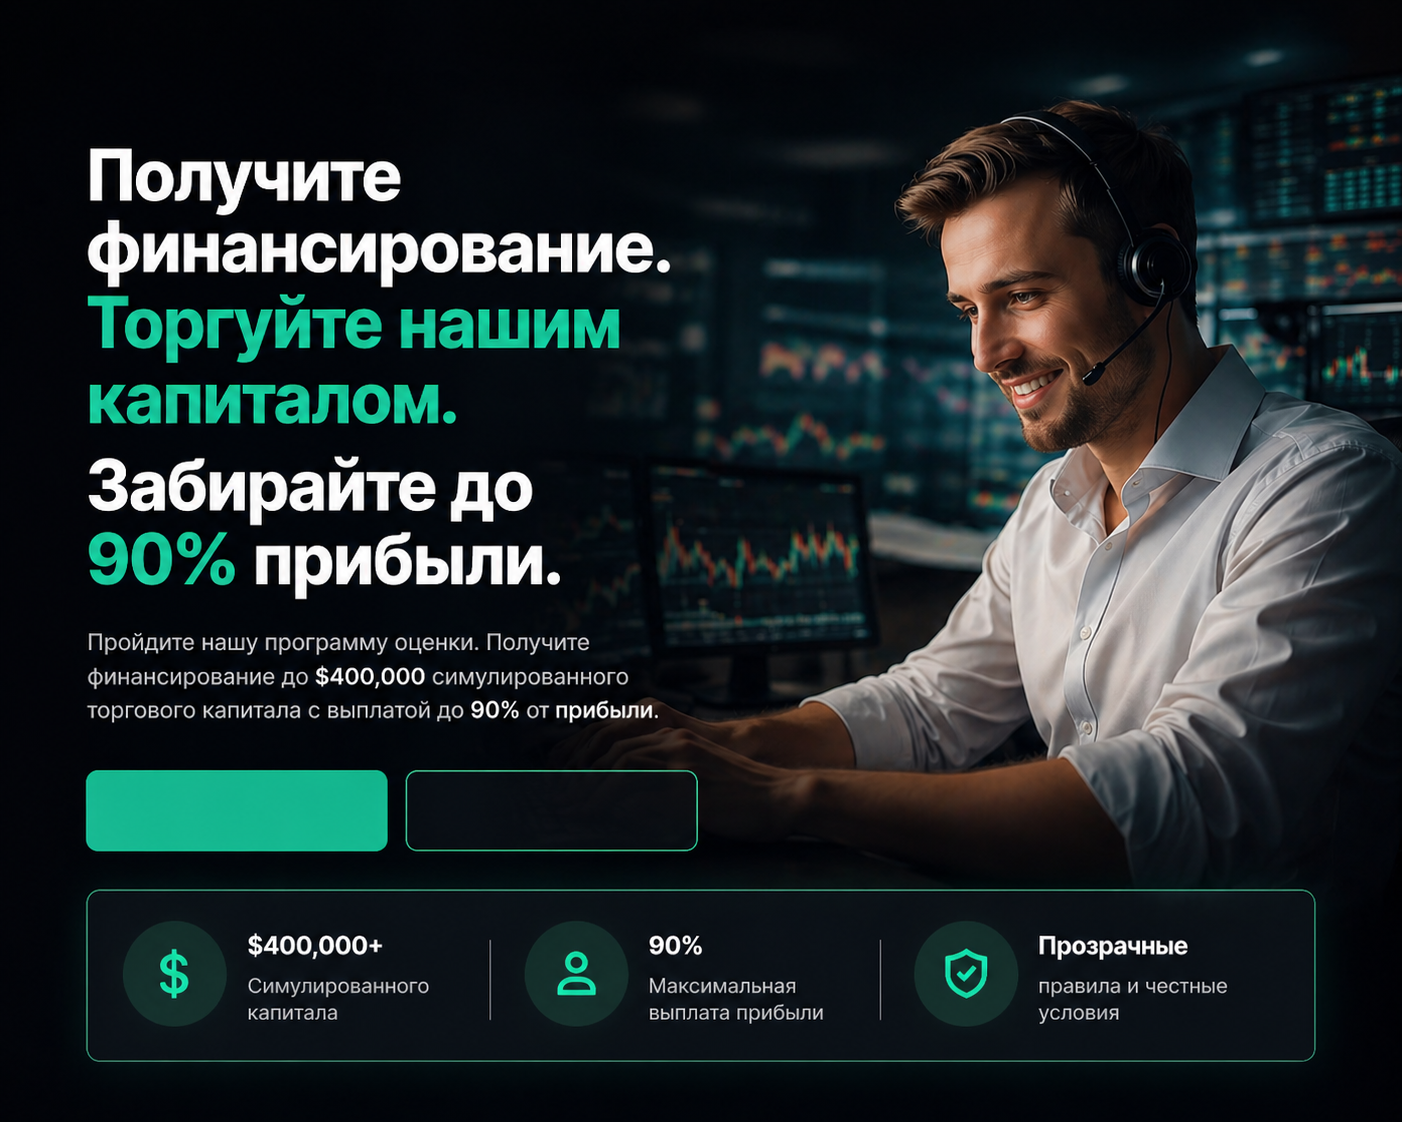
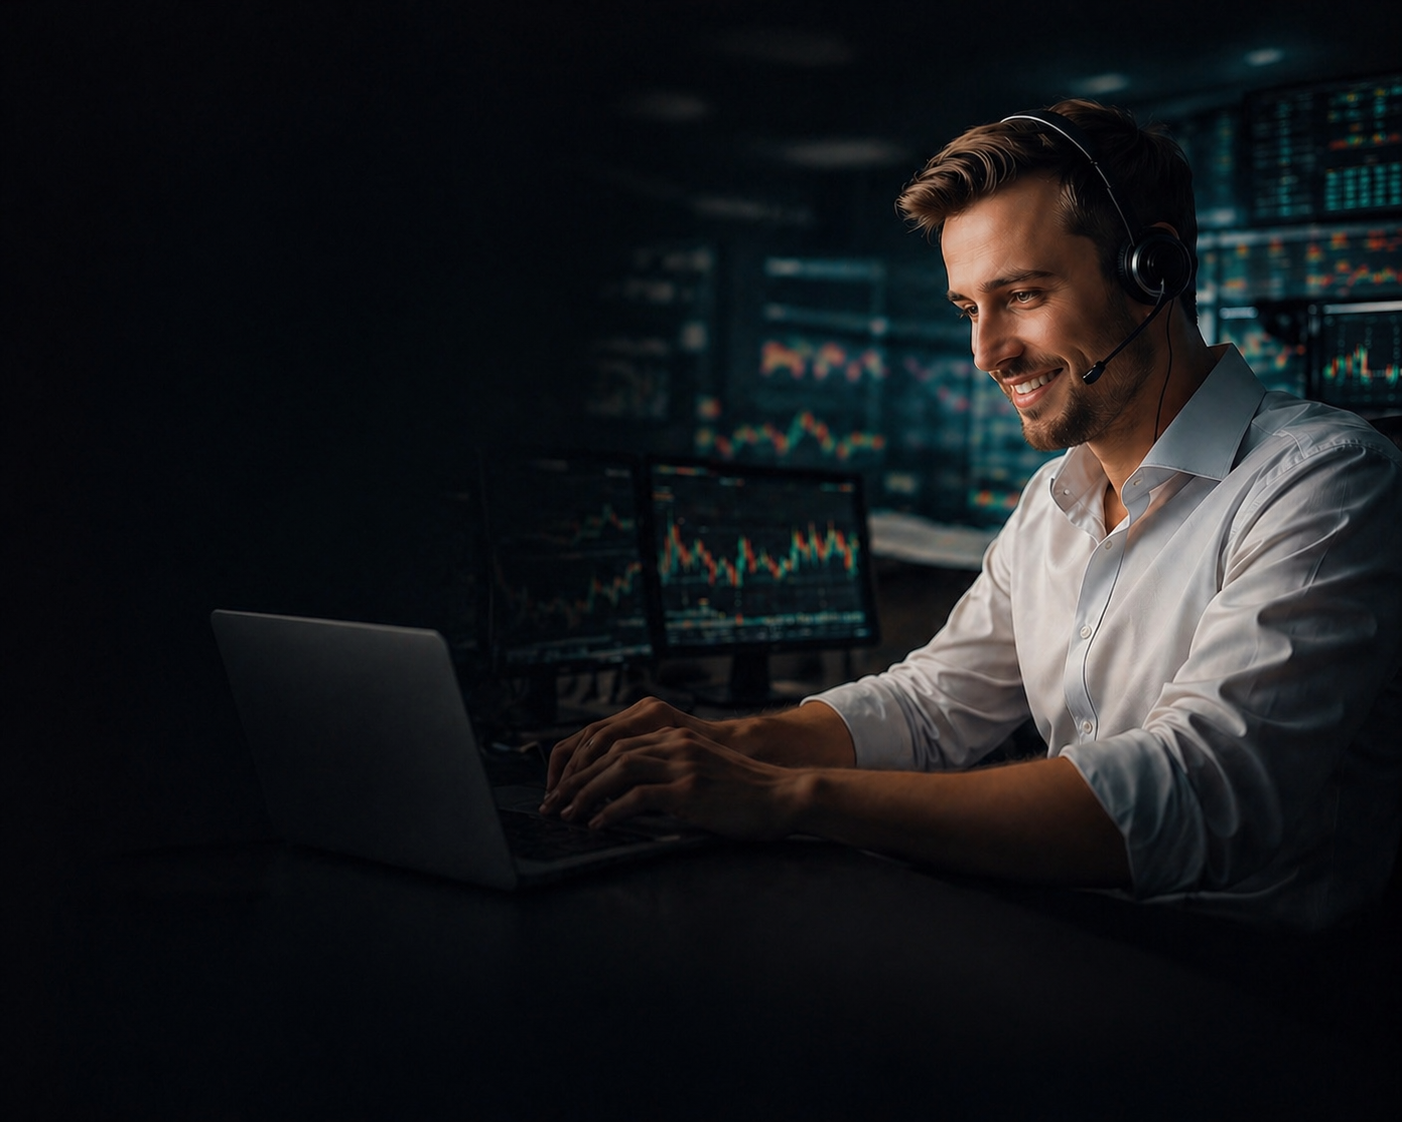
Hero: clean photo as bg, text+buttons coded on left — no more overlay guessing

diff --git a/src/web/components/Hero.tsx b/src/web/components/Hero.tsx
@@ -6,63 +6,117 @@ export default function Hero() {
 
   return (
     <section style={{ background: "#060a10", paddingTop: "80px" }}>
-      <div style={{ position: "relative", width: "100%" }}>
+      <div style={{
+        position: "relative",
+        width: "100%",
+        minHeight: "clamp(480px, 65vw, 700px)",
+        overflow: "hidden",
+        backgroundImage: `url(${ru ? "/hero-bg-ru.png" : "/hero-bg.png"})`,
+        backgroundSize: "cover",
+        backgroundPosition: "center top",
+      }}>
 
-        {/* Photo as-is */}
-        <img
-          src={ru ? "/hero-bg-ru.png" : "/hero-bg.png"}
-          alt="ProbCapital"
-          style={{ display: "block", width: "100%", height: "auto" }}
-        />
+        {/* Dark overlay — heavy on left where text goes */}
+        <div style={{
+          position: "absolute", inset: 0,
+          background: "linear-gradient(to right, rgba(6,10,16,0.97) 0%, rgba(6,10,16,0.88) 30%, rgba(6,10,16,0.5) 55%, rgba(6,10,16,0.0) 80%)",
+        }} />
+        <div style={{
+          position: "absolute", bottom: 0, left: 0, right: 0, height: "25%",
+          background: "linear-gradient(to top, #060a10, transparent)",
+        }} />
 
-        {/* Button 1 — green */}
-        <a
-          href="https://app.probcapital.com"
-          target="_blank"
-          rel="noopener noreferrer"
-          style={{
-            position: "absolute",
-            top: "73%",
-            left: "7.5%",
-            width: "20%",
-            height: "7%",
-            display: "flex",
-            alignItems: "center",
-            justifyContent: "center",
-            background: "transparent",
-            color: "#0a0e17",
-            fontWeight: 700,
-            fontSize: "clamp(9px, 1.2vw, 15px)",
-            textDecoration: "none",
-            whiteSpace: "nowrap",
-          }}
-        >
-          {ru ? "Начать челлендж →" : "Start Challenge →"}
-        </a>
+        {/* Content — left side */}
+        <div style={{
+          position: "relative", zIndex: 10,
+          maxWidth: "1200px", margin: "0 auto",
+          padding: "clamp(50px, 8vw, 110px) 40px",
+          display: "flex", flexDirection: "column", alignItems: "flex-start",
+        }}>
+          <div style={{ maxWidth: "480px" }}>
 
-        {/* Button 2 — dark */}
-        <a
-          href="#how-it-works"
-          style={{
-            position: "absolute",
-            top: "73%",
-            left: "30%",
-            width: "20%",
-            height: "7%",
-            display: "flex",
-            alignItems: "center",
-            justifyContent: "center",
-            background: "transparent",
-            color: "#FFFFFF",
-            fontWeight: 600,
-            fontSize: "clamp(9px, 1.2vw, 15px)",
-            textDecoration: "none",
-            whiteSpace: "nowrap",
-          }}
-        >
-          {ru ? "Как это работает" : "How It Works"}
-        </a>
+            {/* Headline */}
+            <h1 style={{
+              margin: 0,
+              fontSize: "clamp(36px, 5vw, 68px)",
+              fontWeight: 900,
+              lineHeight: 1.1,
+              letterSpacing: "-0.025em",
+              color: "#FFFFFF",
+            }}>
+              {ru ? (
+                <>
+                  Получите<br />финансирование.<br />
+                  Торгуйте нашим<br />капиталом.<br />
+                  <span style={{ color: "#00D4AA" }}>Забирайте до 90%<br />прибыли.</span>
+                </>
+              ) : (
+                <>
+                  Get funded.<br />
+                  Trade our capital.<br />
+                  <span style={{ color: "#00D4AA" }}>Keep up to 90%<br />of the profits.</span>
+                </>
+              )}
+            </h1>
 
+            {/* Subtitle */}
+            <p style={{
+              marginTop: "clamp(14px, 2vw, 24px)",
+              fontSize: "clamp(14px, 1.2vw, 16px)",
+              color: "rgba(255,255,255,0.65)",
+              lineHeight: 1.7,
+            }}>
+              {ru
+                ? <>Пройдите нашу программу оценки. Получите до <strong style={{ color: "#fff" }}>$400,000</strong> симулированного капитала с выплатой до <strong style={{ color: "#fff" }}>90%</strong> прибыли.</>
+                : <>Take our evaluation program. Get funded with up to <strong style={{ color: "#fff" }}>$400,000</strong> in simulated capital. Keep up to <strong style={{ color: "#fff" }}>90%</strong> of profits.</>
+              }
+            </p>
+
+            {/* Buttons */}
+            <div style={{
+              display: "flex", gap: "14px",
+              marginTop: "clamp(28px, 4vw, 48px)",
+              flexWrap: "wrap",
+            }}>
+              <a
+                href="https://app.probcapital.com"
+                target="_blank"
+                rel="noopener noreferrer"
+                style={{
+                  display: "inline-flex", alignItems: "center", justifyContent: "center",
+                  padding: "15px 32px", borderRadius: "8px",
+                  background: "#00D4AA", color: "#060a10",
+                  fontWeight: 700, fontSize: "16px",
+                  textDecoration: "none", whiteSpace: "nowrap",
+                  boxShadow: "0 4px 28px rgba(0,212,170,0.5)",
+                }}
+              >
+                {ru ? "Начать челлендж →" : "Start Challenge →"}
+              </a>
+
+              <a
+                href="#how-it-works"
+                style={{
+                  display: "inline-flex", alignItems: "center", justifyContent: "center", gap: "8px",
+                  padding: "15px 28px", borderRadius: "8px",
+                  background: "rgba(255,255,255,0.08)",
+                  border: "1.5px solid rgba(255,255,255,0.3)",
+                  color: "#FFFFFF",
+                  fontWeight: 600, fontSize: "16px",
+                  textDecoration: "none", whiteSpace: "nowrap",
+                }}
+              >
+                <span style={{
+                  display: "inline-flex", alignItems: "center", justifyContent: "center",
+                  width: "22px", height: "22px", borderRadius: "50%",
+                  border: "1.5px solid rgba(255,255,255,0.5)", fontSize: "9px",
+                }}>▶</span>
+                {ru ? "Как это работает" : "How It Works"}
+              </a>
+            </div>
+
+          </div>
+        </div>
       </div>
     </section>
   );
